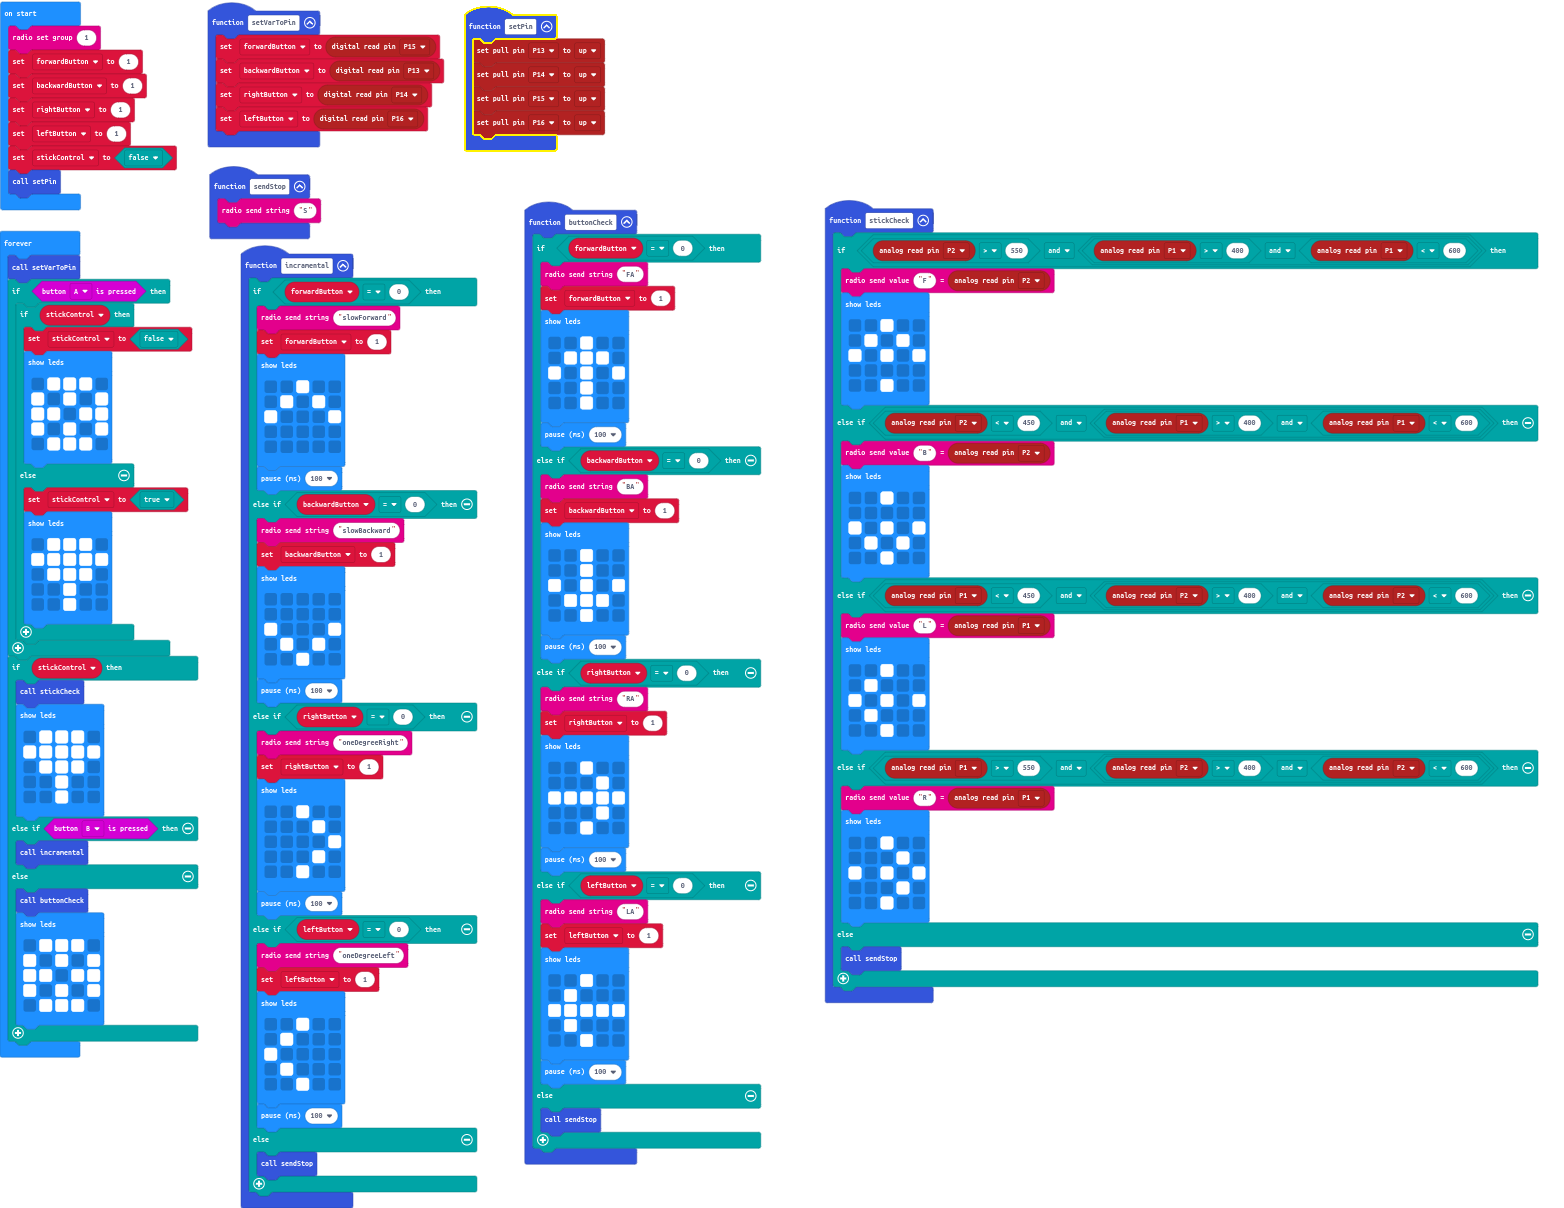
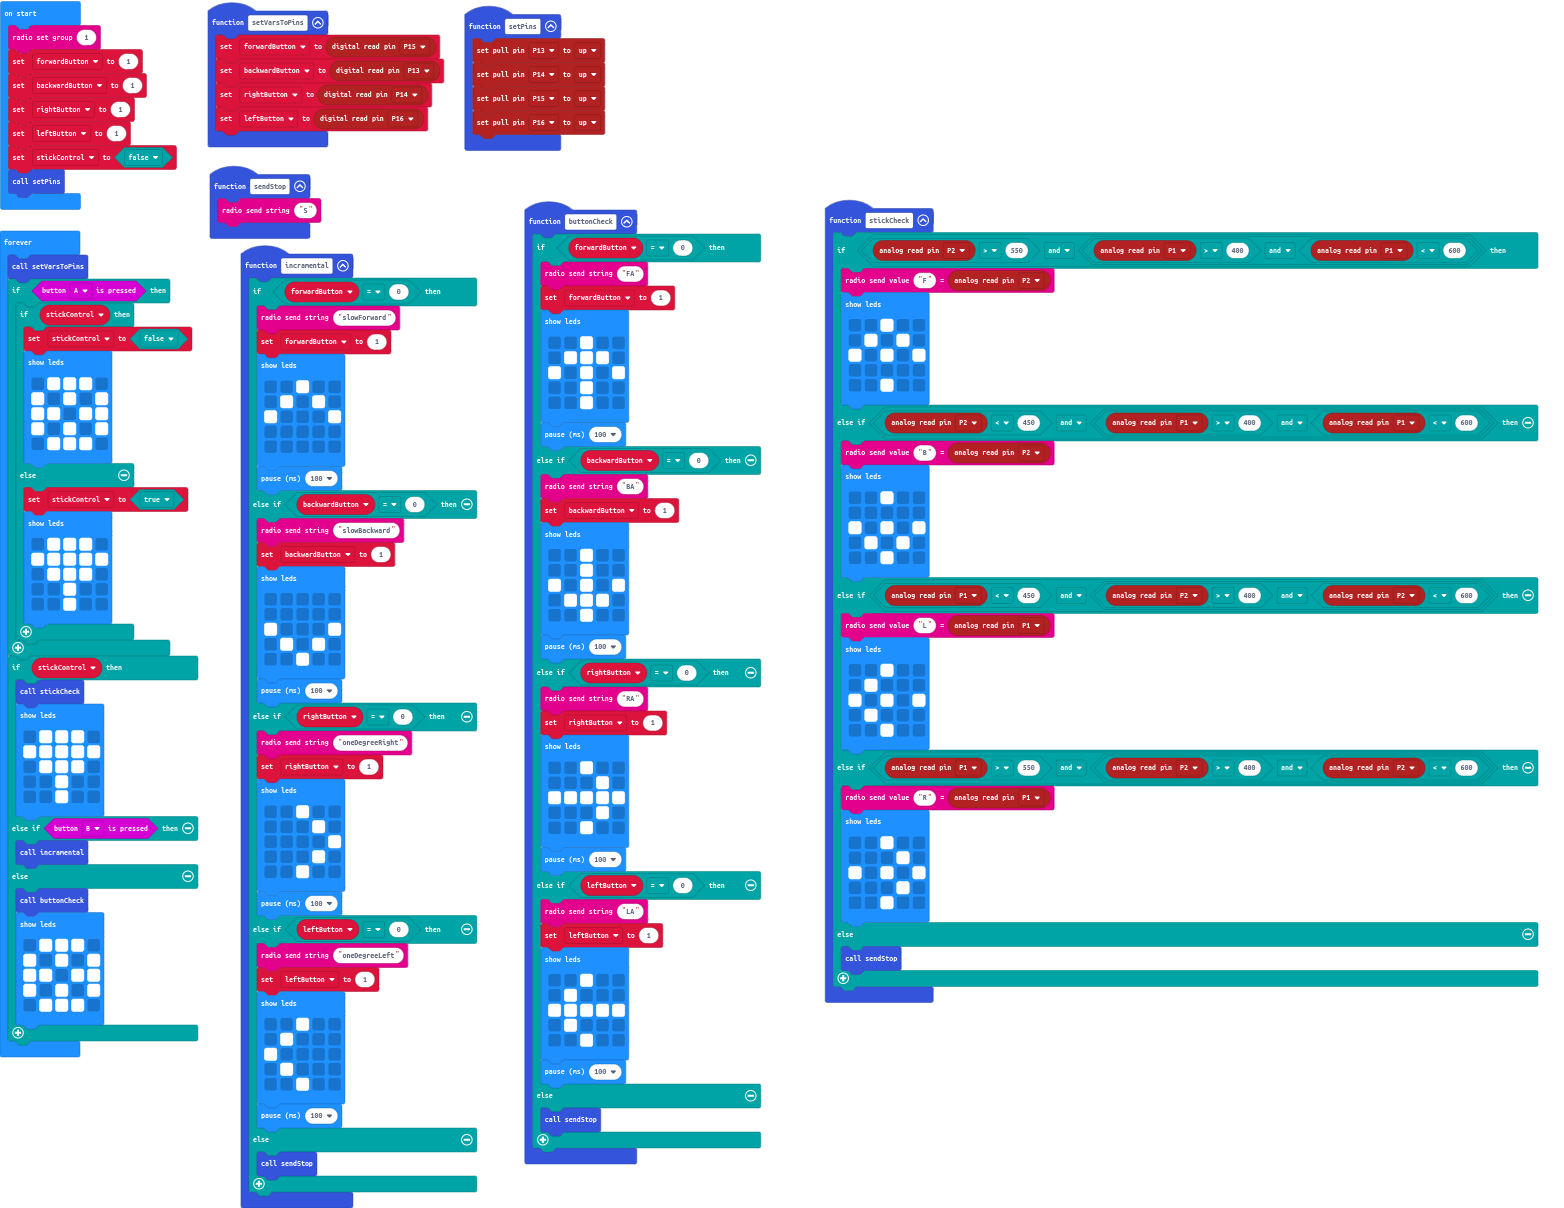
changed function names for clarity

diff --git a/main.ts b/main.ts
@@ -1,9 +1,3 @@
-function setVarToPin () {
-    forwardButton = pins.digitalReadPin(DigitalPin.P15)
-    backwardButton = pins.digitalReadPin(DigitalPin.P13)
-    rightButton = pins.digitalReadPin(DigitalPin.P14)
-    leftButton = pins.digitalReadPin(DigitalPin.P16)
-}
 function incramental () {
     if (forwardButton == 0) {
         radio.sendString("slowForward")
@@ -97,6 +91,18 @@ function stickCheck () {
 function sendStop () {
     radio.sendString("S")
 }
+function setVarsToPins () {
+    forwardButton = pins.digitalReadPin(DigitalPin.P15)
+    backwardButton = pins.digitalReadPin(DigitalPin.P13)
+    rightButton = pins.digitalReadPin(DigitalPin.P14)
+    leftButton = pins.digitalReadPin(DigitalPin.P16)
+}
+function setPins () {
+    pins.setPull(DigitalPin.P13, PinPullMode.PullUp)
+    pins.setPull(DigitalPin.P14, PinPullMode.PullUp)
+    pins.setPull(DigitalPin.P15, PinPullMode.PullUp)
+    pins.setPull(DigitalPin.P16, PinPullMode.PullUp)
+}
 function buttonCheck () {
     if (forwardButton == 0) {
         radio.sendString("FA")
@@ -146,12 +152,6 @@ function buttonCheck () {
         sendStop()
     }
 }
-function setPin () {
-    pins.setPull(DigitalPin.P13, PinPullMode.PullUp)
-    pins.setPull(DigitalPin.P14, PinPullMode.PullUp)
-    pins.setPull(DigitalPin.P15, PinPullMode.PullUp)
-    pins.setPull(DigitalPin.P16, PinPullMode.PullUp)
-}
 let leftButton = 0
 let rightButton = 0
 let backwardButton = 0
@@ -162,9 +162,9 @@ backwardButton = 1
 rightButton = 1
 leftButton = 1
 let stickControl = false
-setPin()
+setPins()
 basic.forever(function () {
-    setVarToPin()
+    setVarsToPins()
     if (input.buttonIsPressed(Button.A)) {
         if (stickControl) {
             stickControl = false
